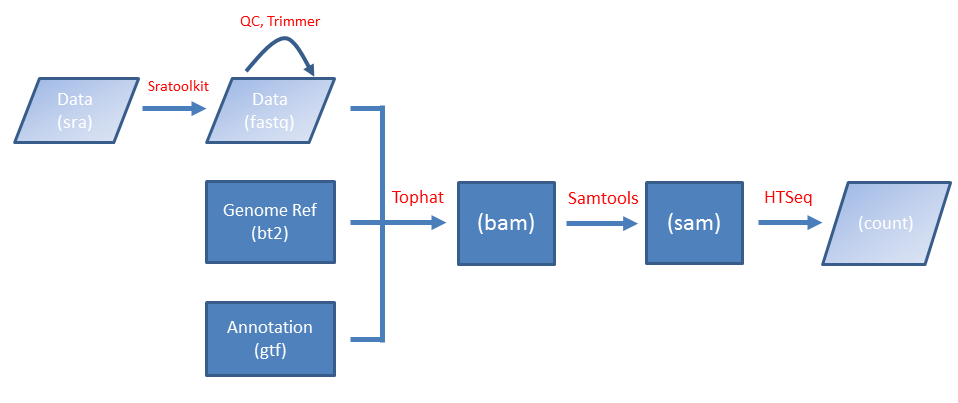
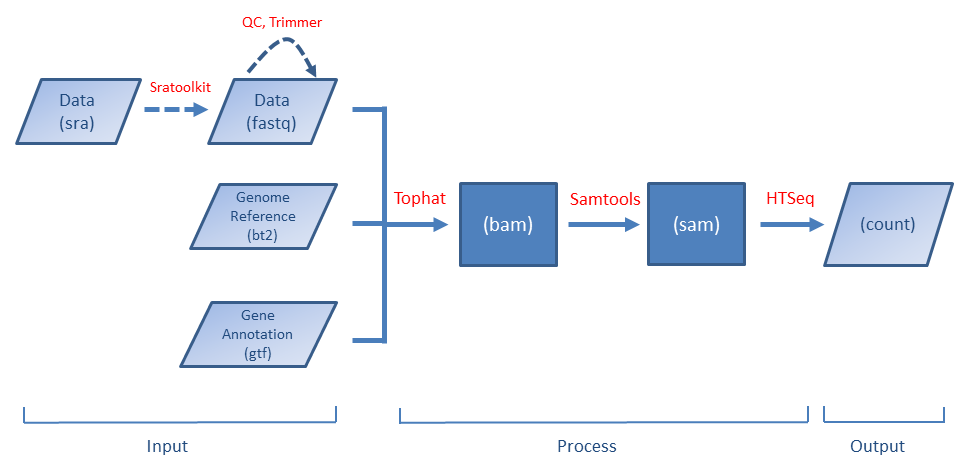
update the flowchart plot

Changed region(s): [[0.0, 0.0298, 0.999, 0.9826], [0.4238, 0.8933, 0.999, 0.9826]]

diff --git a/index.html b/index.html
@@ -244,7 +244,7 @@
 							<h1>Preprocessing 101</h1>
 						</div>
 
-            <p>The workflow can be represented by the following plot.</p>
+            <p>The workflow can be represented by the following plot (a dashed line means the step is optional).</p>
             <a href="images/PreprocessFlow.png"><img src="images/PreprocessFlow.png" width="800px"></a>
             <p></p>
             <p>The first-time BRB-BDGE is used, you have to download the required software (such as Tophat, Samtools, ...) first. 
